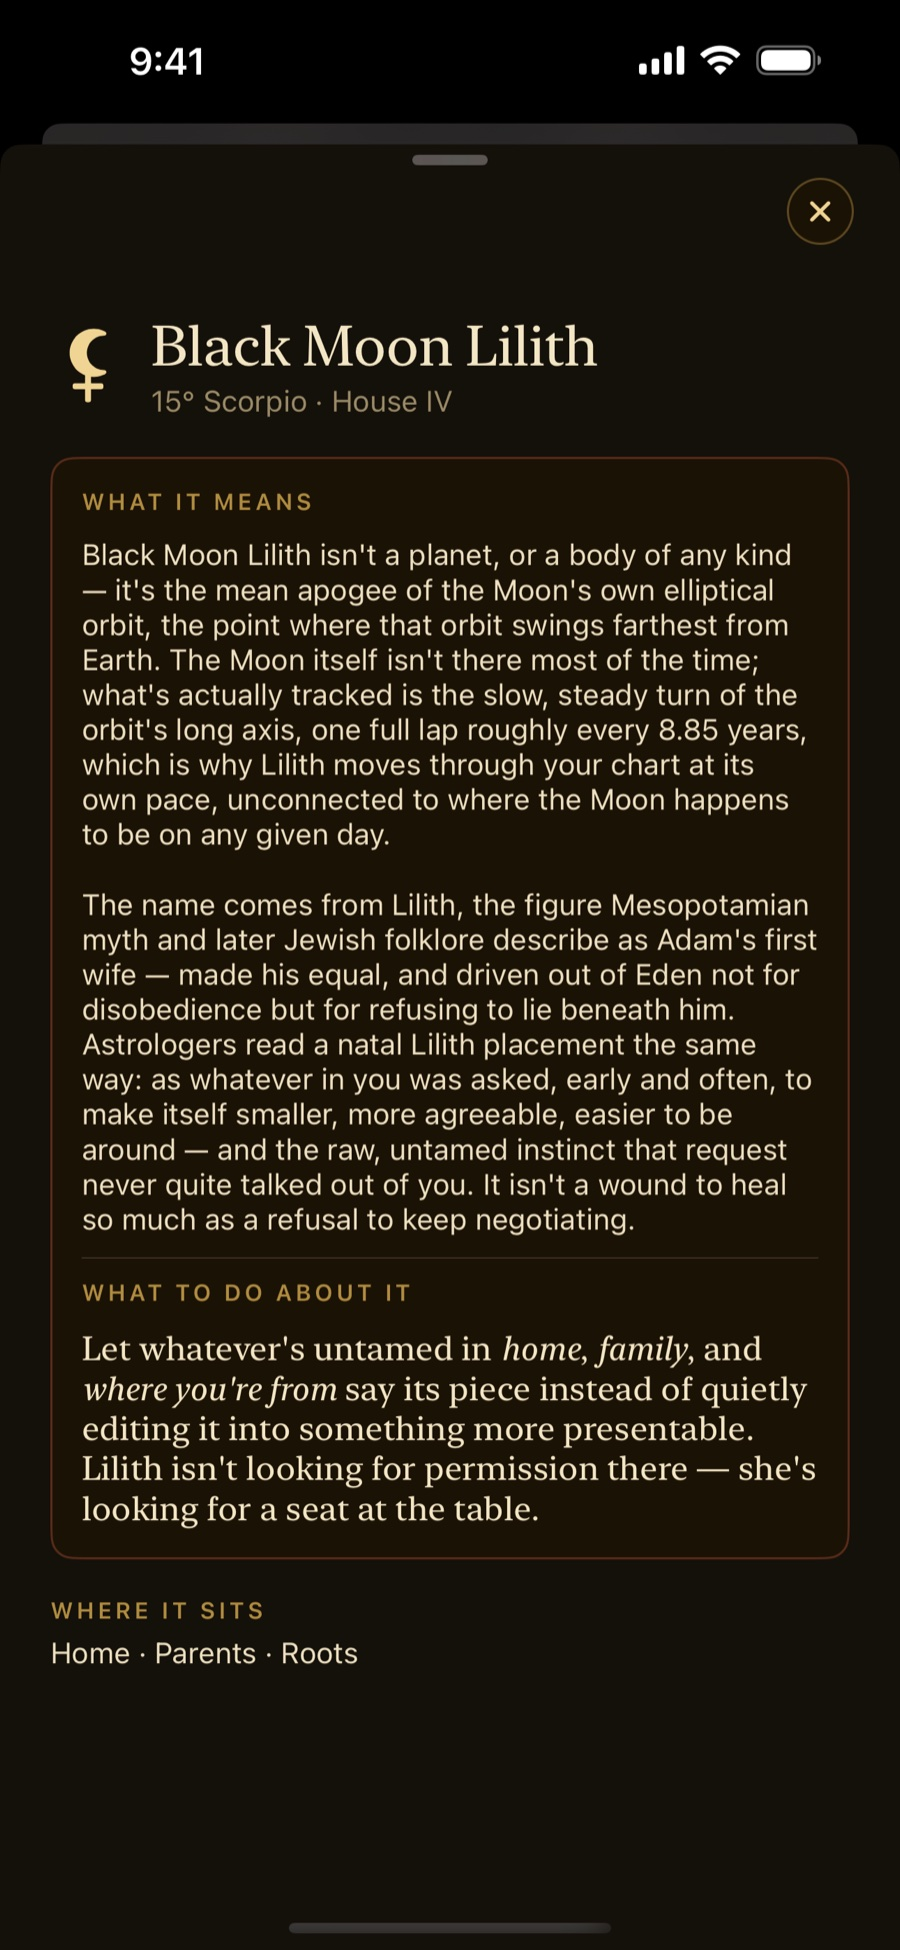
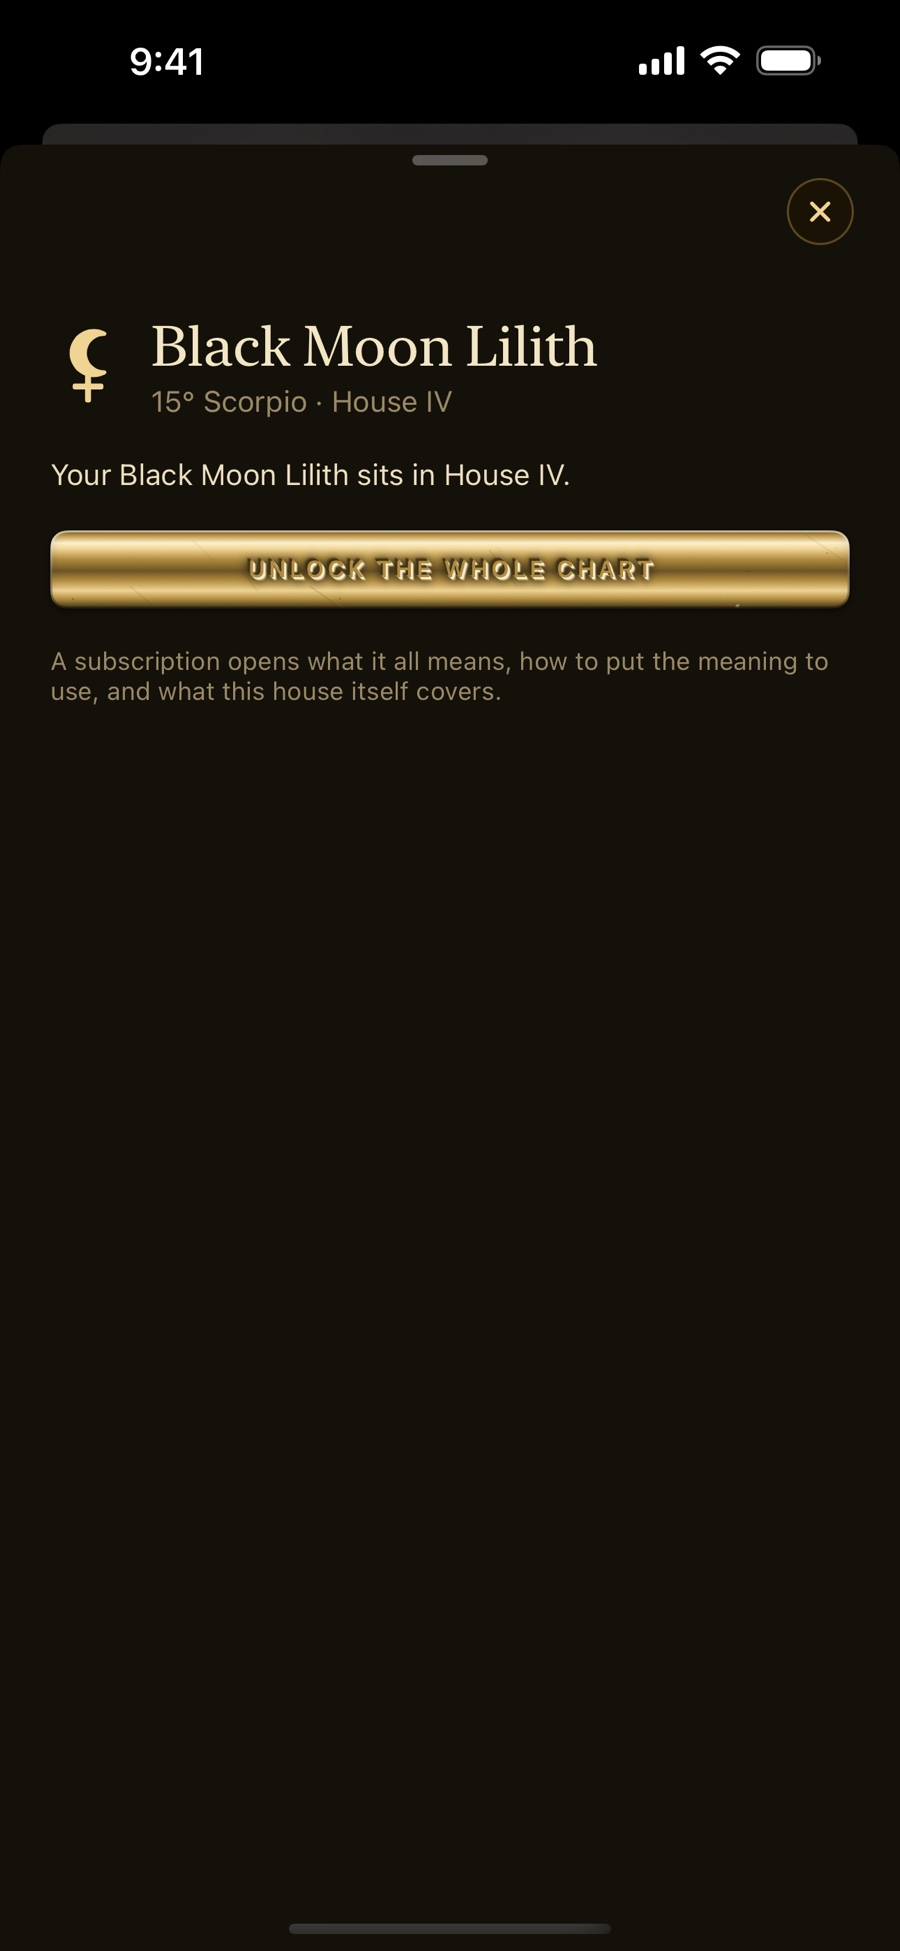
Replace two screenshots that showed paywalled content as free
04-whole-chart.jpg and 09-lilith-detail.jpg were captured from a
subscribed account, so they showed the full Whole Chart synthesis and
Black Moon Lilith readings unlocked -- content that actually sits
behind Astrolabe Premium. Recaptured both from a fresh, unsubscribed
install (same Alex Rivera / Mar 16 1990 demo chart) so they show the
real locked-state teaser cards site visitors will actually see.
Updated their alt text to match.

11-wheel-angles.jpg was checked against the app's paywall gating
(AstrolabeWheel.swift has no subscription check on the wheel's tick
marks or angle labels and left as-is -- it already only shows free
content.
EOF
)

Changed region(s): [[0.0311, 0.2154, 0.9644, 0.8615], [0.3111, 0.8308, 0.4044, 0.8615]]

diff --git a/index.html b/index.html
@@ -342,7 +342,7 @@
       <p>Most horoscopes stop at your sun sign. This one reads your Sun, Moon, Rising, and the planet that rules your whole chart together, as a single throughline instead of four separate blurbs.</p>
       <p>It closes by naming your chart's overall lean, so those four signs resolve into one picture instead of sitting side by side as trivia.</p>
     </div>
-    <div class="shot"><img src="assets/screenshots/04-whole-chart.jpg" alt="The Whole Chart reading, explaining the Sun, Moon, Rising, and chart ruler together" loading="lazy"></div>
+    <div class="shot"><img src="assets/screenshots/04-whole-chart.jpg" alt="The Whole Chart screen, with a subscription prompt to unlock the full Sun, Moon, Rising, and chart ruler reading" loading="lazy"></div>
   </div>
 </section>
 
@@ -354,7 +354,7 @@
       <p>Alongside the ten planets and four angles, this app plots the North Node, Chiron, Black Moon Lilith, and White Moon Selena — points most apps either omit or list without explaining. Each one gets the same full treatment as a planet: what it means, and what to do about it.</p>
       <p>Astrologers pair Black Moon Lilith, the Moon's farthest swing from Earth, with White Moon Selena, its closest — and this is the first version of the app to track both by name.</p>
     </div>
-    <div class="shot"><img src="assets/screenshots/09-lilith-detail.jpg" alt="The Black Moon Lilith detail screen, explaining what the point means and what to do about it" loading="lazy"></div>
+    <div class="shot"><img src="assets/screenshots/09-lilith-detail.jpg" alt="The Black Moon Lilith detail screen, with a subscription prompt to unlock the full reading" loading="lazy"></div>
   </div>
 </section>
 
